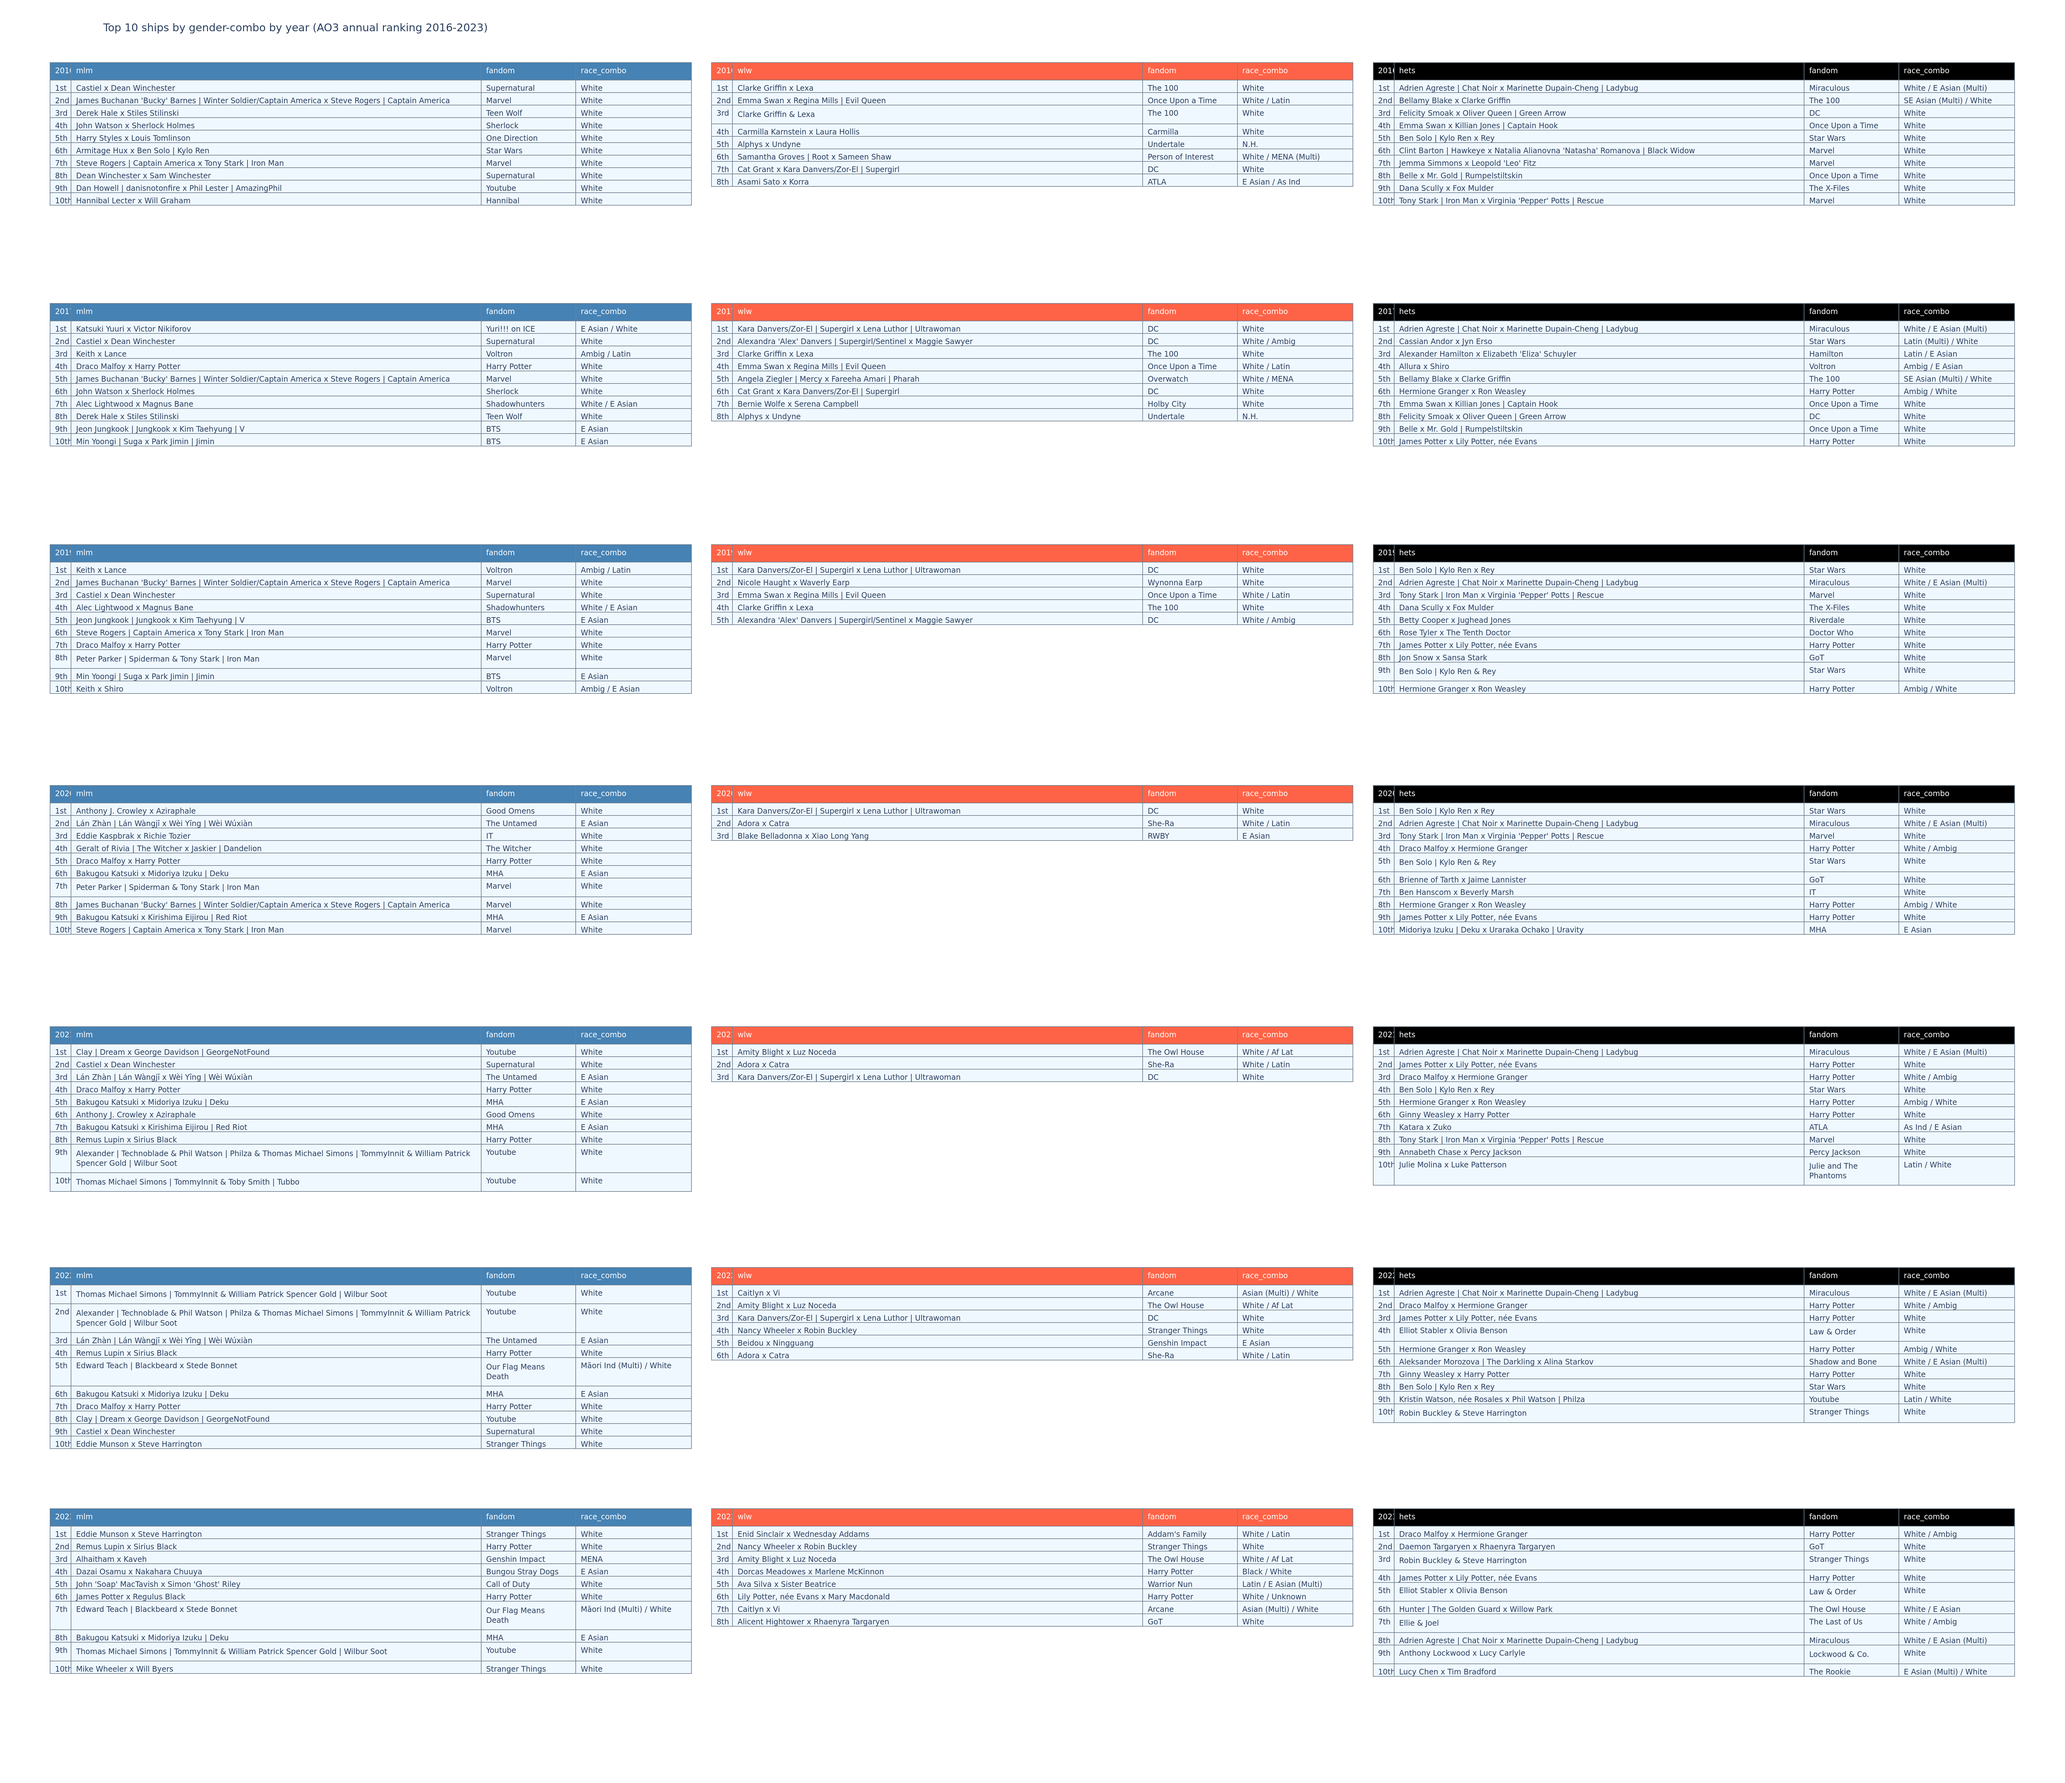
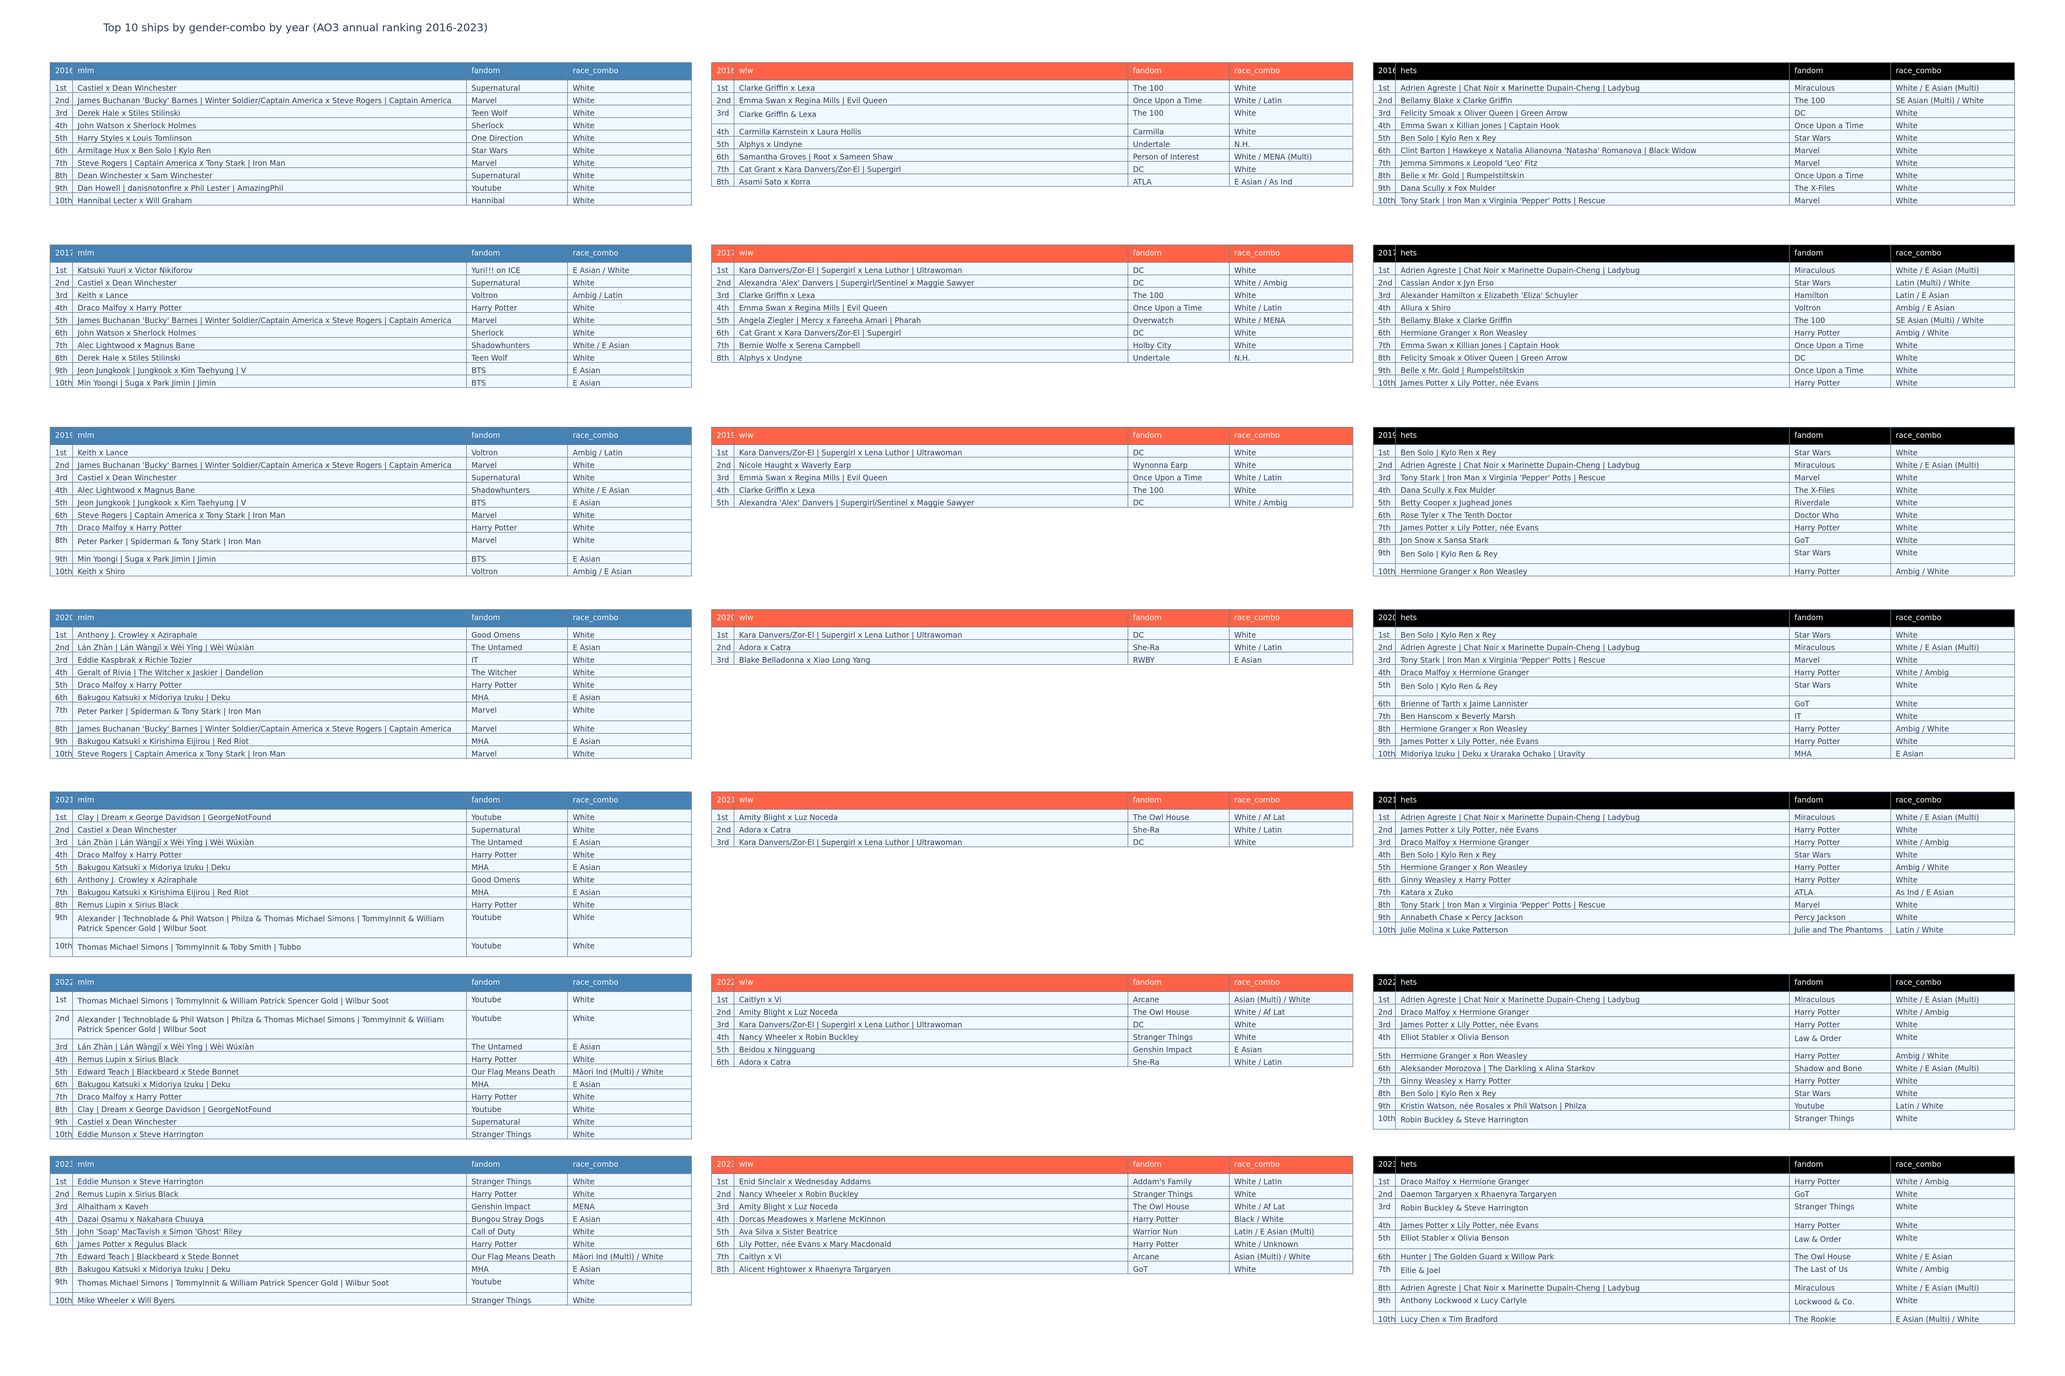
fix spacing issue in top annual ships by gender combo

Changed region(s): [[0.0, 0.0, 0.9988, 0.9652]]

diff --git a/visualisation/diagram_code/visualise_tables.py b/visualisation/diagram_code/visualise_tables.py
@@ -468,7 +468,10 @@ def visualise_column_tables(input_dict:dict, data_case:str, ranking:str):
         ]
         ship_types = ["mlm", "wlw", "hets"]
         title = f"Top 10 ships by gender-combo by year{suffix}"
-        column_width = [0.2, 3.9, 0.9, 1.1]
+        if ranking == "overall":
+            column_width = [0.2, 3.9, 0.9, 1.1]
+        elif ranking == "annual":
+            column_width = [0.2, 3.5, 0.9, 1.1]
 
     # making subplots
     num_of_years = len(input_dict.keys())

diff --git a/visualisation/ao3_annual_rankings_2016_2023/vis_annual_ranking_run_code.py b/visualisation/ao3_annual_rankings_2016_2023/vis_annual_ranking_run_code.py
@@ -158,7 +158,7 @@ top_ships_by_gender_combo_fig = visualise_column_tables(top_ships_by_gender_comb
 top_ships_by_gender_combo_fig.write_image(
     "visualisation/ao3_annual_rankings_2016_2023/ao3_annual_rankings_charts/top_annual_ships_by_gender_combo_2016_2023.png", 
     width=3300, 
-    height=2850, 
+    height=2200, 
     scale=2
 )
 
